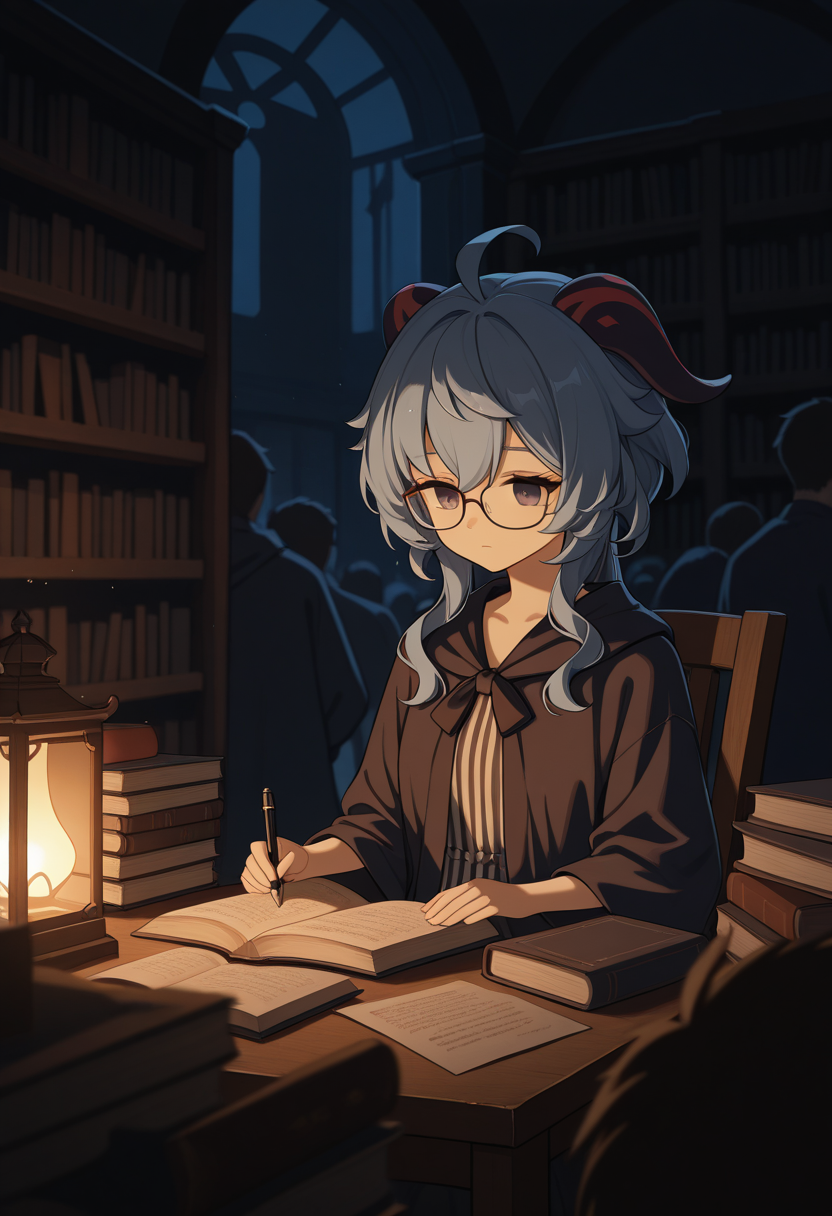
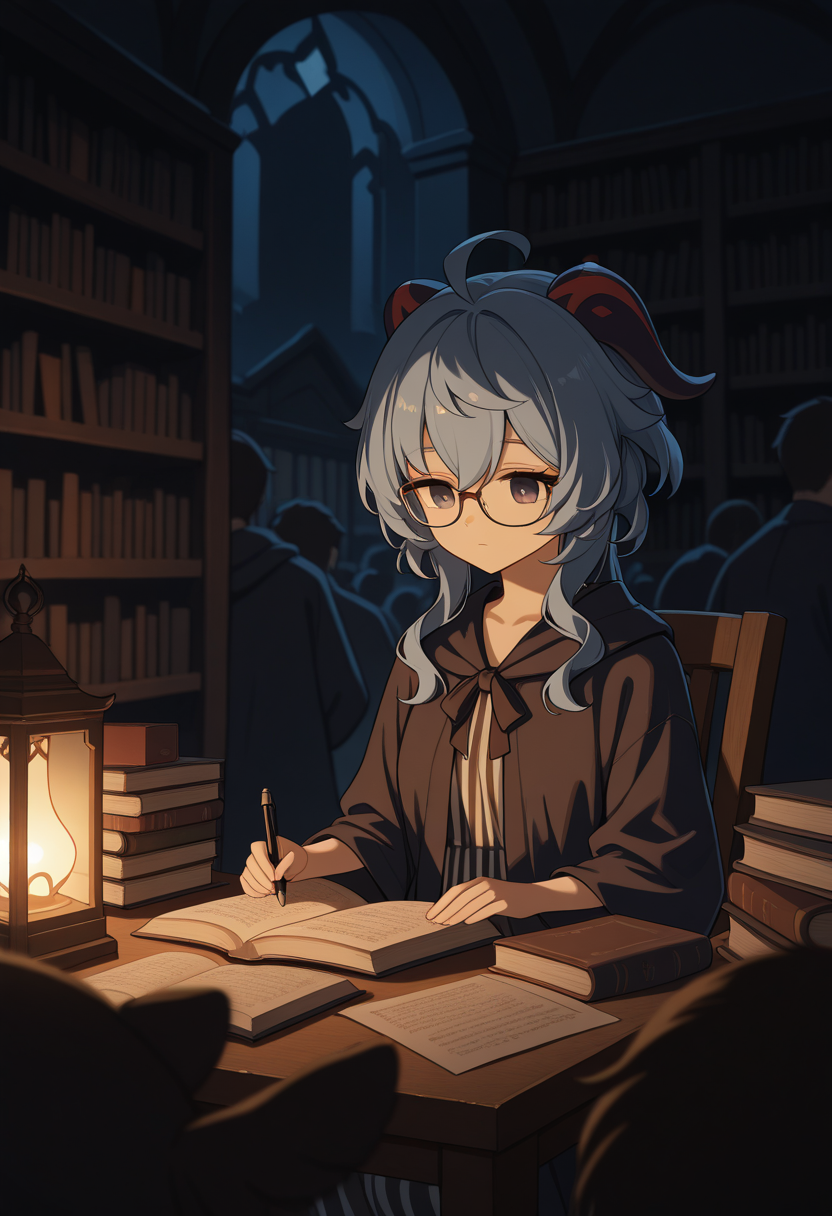
Add a replace or multiply mode to WeightTags
replace swaps a tag's weight for the category's, keeping its sign;
multiply multiplies them, reading ((x)) as 1.21 and [x] as 1/1.1. The
example workflow images show the new row.

diff --git a/nodes/tags.py b/nodes/tags.py
@@ -6,6 +6,7 @@ ReplaceUnderscores carry no node surface: TagsGenerator runs its draw
 through that pipeline before counting what survived.
 """
 
+import math
 import re
 import random
 import textwrap
@@ -1796,6 +1797,29 @@ class ClassifyTags(BasePrompt):
         return (text,)
 
 
+# Prompt emphasis: each wrapping ( multiplies the weight by this, each [
+# divides by it, as ComfyUI's prompt parser reads them.
+_EMPHASIS = 1.1
+_WEIGHTED_RE = re.compile(r"^(.+):(-?[0-9.]+)\s*$")
+
+
+def _weight_of(tag):
+    """The weight a prompt token carries, 1.0 when it names none.
+
+    (x:1.2) is 1.2, ((x)) 1.21, [x] 1/1.1, and ((x:1.2)) 1.2 * 1.1: the
+    parentheses around a number are syntax, the rest emphasis, and they
+    multiply with the number, which may be negative.
+    """
+    t = tag.strip()
+    weight = 1.0
+    while len(t) > 1 and t[0] + t[-1] in ("()", "[]"):
+        if t[0] == "(" and (m := _WEIGHTED_RE.match(t[1:-1])):
+            return weight * float(m.group(2))
+        weight *= _EMPHASIS if t[0] == "(" else 1 / _EMPHASIS
+        t = t[1:-1]
+    return weight
+
+
 class WeightTags(BasePrompt):
     """Weight the tags of the chosen categories, leave the rest alone.
 
@@ -1804,9 +1828,11 @@ class WeightTags(BasePrompt):
     light and effects, then character for Danbooru character tags and
     others for what none of them claims; each toggle has its own weight
     beside it. A tag of a category switched off passes through, and so
-    does BREAK, which is prompt syntax rather than a tag. A weight the
-    tag already carries is replaced, not multiplied:
-    (library:1.2) under background 1.5 comes back (library:1.5).
+    does BREAK, which is prompt syntax rather than a tag. `mode` says
+    what happens to a weight the tag already carries: replace keeps only
+    its sign, so (library:1.2) under background 1.5 comes back
+    (library:1.5) and (abc:-1.1) comes back (abc:-1.5); multiply
+    multiplies, so they come back (library:1.8) and (abc:-1.65).
 
     Examples:
         Input: text=":3, :\\), shirt, 1girl, library",
@@ -1818,6 +1844,16 @@ class WeightTags(BasePrompt):
     INPUT_TYPES = lambda: {
         "required": {
             "text": ("STRING", {"forceInput": True}),
+            "mode": (
+                ["replace", "multiply"],
+                {
+                    "default": "replace",
+                    "tooltip": "What a weight the tag already has becomes: "
+                    "replace swaps it for the category's weight, keeping "
+                    "its sign; multiply multiplies the two. ((x)) counts "
+                    "as 1.21 and [x] as 1/1.1.",
+                },
+            ),
             **{
                 key: widget
                 for name in BUCKETS
@@ -1857,7 +1893,7 @@ class WeightTags(BasePrompt):
 
     @classmethod
     @exception_handler
-    def execute(cls, text: str, **categories) -> tuple[str]:
+    def execute(cls, text: str, mode: str = "replace", **categories) -> tuple[str]:
         weights = {
             name: categories.get(name + _WEIGHT_SUFFIX, 1.1)
             for name in BUCKETS
@@ -1872,6 +1908,11 @@ class WeightTags(BasePrompt):
             if tag and tag != "BREAK":
                 weight = weights.get(bucket_of(normalize(tag)))
             if weight is not None:
+                old = _weight_of(tag)
+                weight = (
+                    old * weight if mode == "multiply" else math.copysign(weight, old)
+                )
+                weight = round(weight, 3)
                 lead = piece[: len(piece) - len(piece.lstrip())]
                 trail = piece[len(piece.rstrip()) :]
                 piece = f"{lead}({unwrap(tag)}:{weight:g}){trail}"
@@ -1879,8 +1920,8 @@ class WeightTags(BasePrompt):
         return (",".join(out),)
 
     @classmethod
-    def IS_CHANGED(cls, text: str, **categories) -> tuple:
-        return (text, tuple(sorted(categories.items())))
+    def IS_CHANGED(cls, text: str, mode: str = "replace", **categories) -> tuple:
+        return (text, mode, tuple(sorted(categories.items())))
 
 
 # Families that read as one decorative motif, capped by shared first word.

diff --git a/tests/issue/68-add-a-replace-or-multiply-mode-to-weighttags/test_mode.py b/tests/issue/68-add-a-replace-or-multiply-mode-to-weighttags/test_mode.py
@@ -1,0 +1,85 @@
+import importlib.util
+import sys
+from pathlib import Path
+
+import pytest
+
+PACK_DIR = Path(__file__).resolve().parents[3]
+
+
+@pytest.fixture(scope="module")
+def pack():
+    spec = importlib.util.spec_from_file_location(
+        "comfyui_generator_pack",
+        PACK_DIR / "__init__.py",
+        submodule_search_locations=[str(PACK_DIR)],
+    )
+    pack = importlib.util.module_from_spec(spec)
+    sys.modules[spec.name] = pack
+    spec.loader.exec_module(pack)
+    return pack
+
+
+@pytest.fixture
+def weight(pack):
+    node = pack.NODE_CLASS_MAPPINGS["WeightTags"]
+
+    buckets = [n for n in node.INPUT_TYPES()["required"] if n not in ("text", "mode")]
+
+    def run(text, mode, value):
+        on = {b: True for b in buckets if not b.endswith("_weight")}
+        on.update({b: value for b in buckets if b.endswith("_weight")})
+        return node.execute(text=text, mode=mode, **on)[0]
+
+    return run
+
+
+def test_mode_follows_text(pack):
+    required = pack.NODE_CLASS_MAPPINGS["WeightTags"].INPUT_TYPES()["required"]
+    assert list(required)[:2] == ["text", "mode"]
+    assert required["mode"][0] == ["replace", "multiply"]
+    assert required["mode"][1]["default"] == "replace"
+
+
+@pytest.mark.parametrize(
+    "tag, out",
+    [
+        ("shirt", "(shirt:1.2)"),
+        ("(library:1.2)", "(library:1.2)"),
+        ("((shirt))", "(shirt:1.2)"),
+        ("(abc:-1.1)", "(abc:-1.2)"),
+        ("[smile]", "(smile:1.2)"),
+    ],
+)
+def test_replace_keeps_the_sign(weight, tag, out):
+    assert weight(tag, "replace", 1.2) == out
+
+
+@pytest.mark.parametrize(
+    "tag, out",
+    [
+        ("shirt", "(shirt:1.1)"),
+        ("(library:1.2)", "(library:1.32)"),
+        ("((shirt))", "(shirt:1.331)"),
+        ("(abc:-1.1)", "(abc:-1.21)"),
+    ],
+)
+def test_multiply(weight, tag, out):
+    assert weight(tag, "multiply", 1.1) == out
+
+
+@pytest.mark.parametrize(
+    "tag, value",
+    [
+        ("shirt", 1.0),
+        ("(shirt:1.2)", 1.2),
+        ("((shirt))", 1.21),
+        ("[smile]", 1 / 1.1),
+        ("((x:1.2))", 1.2 * 1.1),
+        ("(abc:-1.1)", -1.1),
+        ("ganyu \\(genshin impact\\)", 1.0),
+    ],
+)
+def test_weight_of(pack, tag, value):
+    tags = sys.modules["comfyui_generator_pack.nodes.tags"]
+    assert tags._weight_of(tag) == pytest.approx(value)

diff --git a/nodes/lib/tag_guard.py b/nodes/lib/tag_guard.py
@@ -46,12 +46,12 @@ _WEIGHT_RE = re.compile(r"^(.+):[0-9.-]+\s*$")
 def unwrap(tag):
     """Strip the weight syntax, keeping the tag's own spelling.
 
-    Only a wrapper is syntax: "(smile:1.2)" and "((smile))" are smile,
-    while ":)" and "star (sky)" keep their parentheses and ":3" keeps
-    its digit.
+    Only a wrapper is syntax: "(smile:1.2)", "((smile))" and "[smile]"
+    are smile, while ":)" and "star (sky)" keep their parentheses and
+    ":3" keeps its digit.
     """
     t = tag.strip()
-    while len(t) > 1 and t[0] == "(" and t[-1] == ")":
+    while len(t) > 1 and t[0] + t[-1] in ("()", "[]"):
         t = t[1:-1]
     if m := _WEIGHT_RE.match(t):
         t = m.group(1)

diff --git a/tests/issue/46-give-each-weighttags-category-its-own-weight/test_category_weights.py b/tests/issue/46-give-each-weighttags-category-its-own-weight/test_category_weights.py
@@ -47,7 +47,7 @@ def weight(pack):
 def test_widget_pairs(pack):
     required = pack.NODE_CLASS_MAPPINGS["WeightTags"].INPUT_TYPES()["required"]
     pairs = tuple(key for name in CATEGORIES for key in (name, name + "_weight"))
-    assert tuple(required) == ("text", *pairs)
+    assert tuple(required) == ("text", "mode", *pairs)
     for name in CATEGORIES:
         assert required[name + "_weight"][0] == "FLOAT"
         assert required[name + "_weight"][1]["default"] == 1.1

diff --git a/tests/issue/42-add-weighttags-node/test_weight_tags.py b/tests/issue/42-add-weighttags-node/test_weight_tags.py
@@ -51,7 +51,7 @@ def test_registered(pack):
 def test_widget_order(pack):
     required = pack.NODE_CLASS_MAPPINGS["WeightTags"].INPUT_TYPES()["required"]
     pairs = tuple(key for name in CATEGORIES for key in (name, name + "_weight"))
-    assert tuple(required) == ("text", *pairs)
+    assert tuple(required) == ("text", "mode", *pairs)
     for name in CATEGORIES:
         assert required[name + "_weight"][1]["default"] == 1.1
         assert required[name][0] == "BOOLEAN"

diff --git a/tests/issue/62-add-an-others-toggle-to-weighttags/test_others.py b/tests/issue/62-add-an-others-toggle-to-weighttags/test_others.py
@@ -37,7 +37,7 @@ def weight(pack):
 def test_widgets_follow_buckets(pack):
     required = pack.NODE_CLASS_MAPPINGS["WeightTags"].INPUT_TYPES()["required"]
     pairs = tuple(key for name in tag_guard.BUCKETS for key in (name, name + "_weight"))
-    assert tuple(required) == ("text", *pairs)
+    assert tuple(required) == ("text", "mode", *pairs)
 
 
 def test_others_weight(weight):

diff --git a/tests/issue/56-add-a-character-toggle-to-weighttags/test_character_weight.py b/tests/issue/56-add-a-character-toggle-to-weighttags/test_character_weight.py
@@ -46,7 +46,7 @@ def weight(pack):
 def test_character_follows_framing(pack):
     required = pack.NODE_CLASS_MAPPINGS["WeightTags"].INPUT_TYPES()["required"]
     pairs = tuple(key for name in CATEGORIES for key in (name, name + "_weight"))
-    assert tuple(required) == ("text", *pairs)
+    assert tuple(required) == ("text", "mode", *pairs)
 
 
 def test_character_weight(weight):

diff --git a/tests/issue/60-move-character-after-framing-in-classifytags-and-weighttags/test_order.py b/tests/issue/60-move-character-after-framing-in-classifytags-and-weighttags/test_order.py
@@ -41,4 +41,4 @@ def test_classify_outputs(pack):
 def test_weight_widgets(pack):
     required = pack.NODE_CLASS_MAPPINGS["WeightTags"].INPUT_TYPES()["required"]
     pairs = tuple(key for name in ORDER for key in (name, name + "_weight"))
-    assert tuple(required) == ("text", *pairs)
+    assert tuple(required) == ("text", "mode", *pairs)

diff --git a/README_ko.md b/README_ko.md
@@ -92,7 +92,8 @@ character, 어느 카테고리도 뽑지 않는 태그는 others입니다.
 
 **Weight Tags**: 켠 카테고리의 태그를 `(태그:weight)`로 감쌉니다. Classify Tags의 출력(Tags Generator의
 여덟 개, character, others)마다 토글과 weight가 있습니다. `expressions 1.5`와 `background 1.2`를 켜면 `:3, shirt, library`는
-`(:3:1.5), shirt, (library:1.2)`가 됩니다. 나머지 태그는 그대로 지나가고, 태그에 이미 있던 weight는 바뀝니다.
+`(:3:1.5), shirt, (library:1.2)`가 됩니다. 나머지 태그는 그대로 지나갑니다. 태그에 이미 있던 weight는 `mode`가 `replace`면 부호만 남기고 바뀌고,
+`multiply`면 곱해집니다.
 
 ## 데이터
 

diff --git a/README.md b/README.md
@@ -92,8 +92,8 @@ lead. `cap` trims each group, colours first.
 
 **Weight Tags**: wraps the tags of the categories switched on in `(tag:weight)`, a toggle and a weight for
 each of Classify Tags' outputs (Tags Generator's eight, character and others). `expressions 1.5` and
-`background 1.2` turn `:3, shirt, library` into `(:3:1.5), shirt, (library:1.2)`. Other tags pass through, and
-a weight a tag already has is replaced.
+`background 1.2` turn `:3, shirt, library` into `(:3:1.5), shirt, (library:1.2)`. Other tags pass through. `mode`
+says what a weight a tag already has becomes: `replace` swaps it, keeping its sign, and `multiply` multiplies.
 
 ## Data
 
